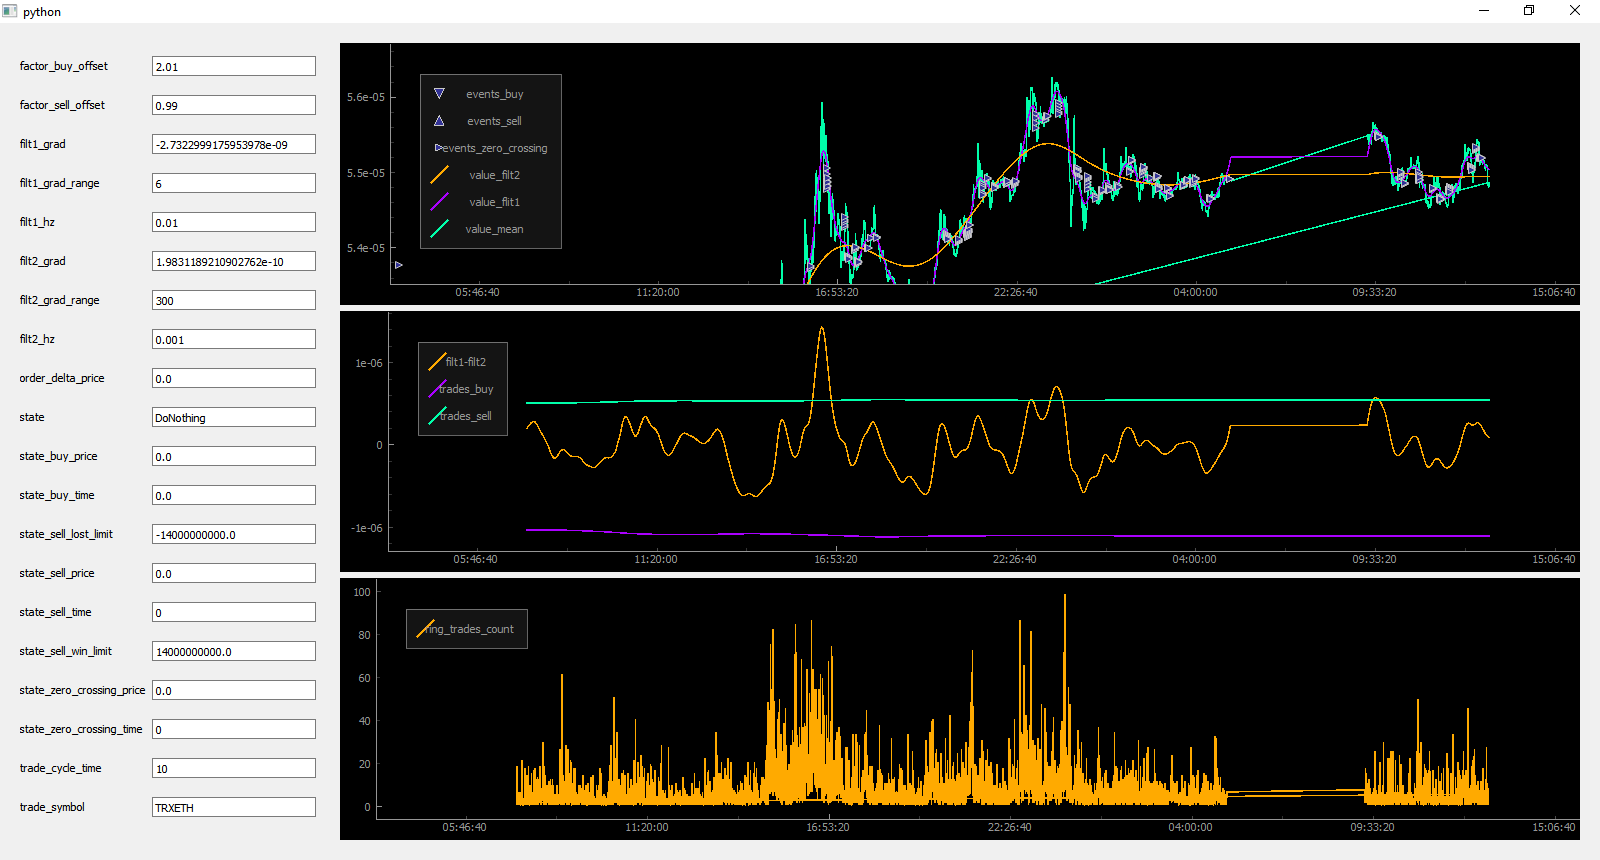
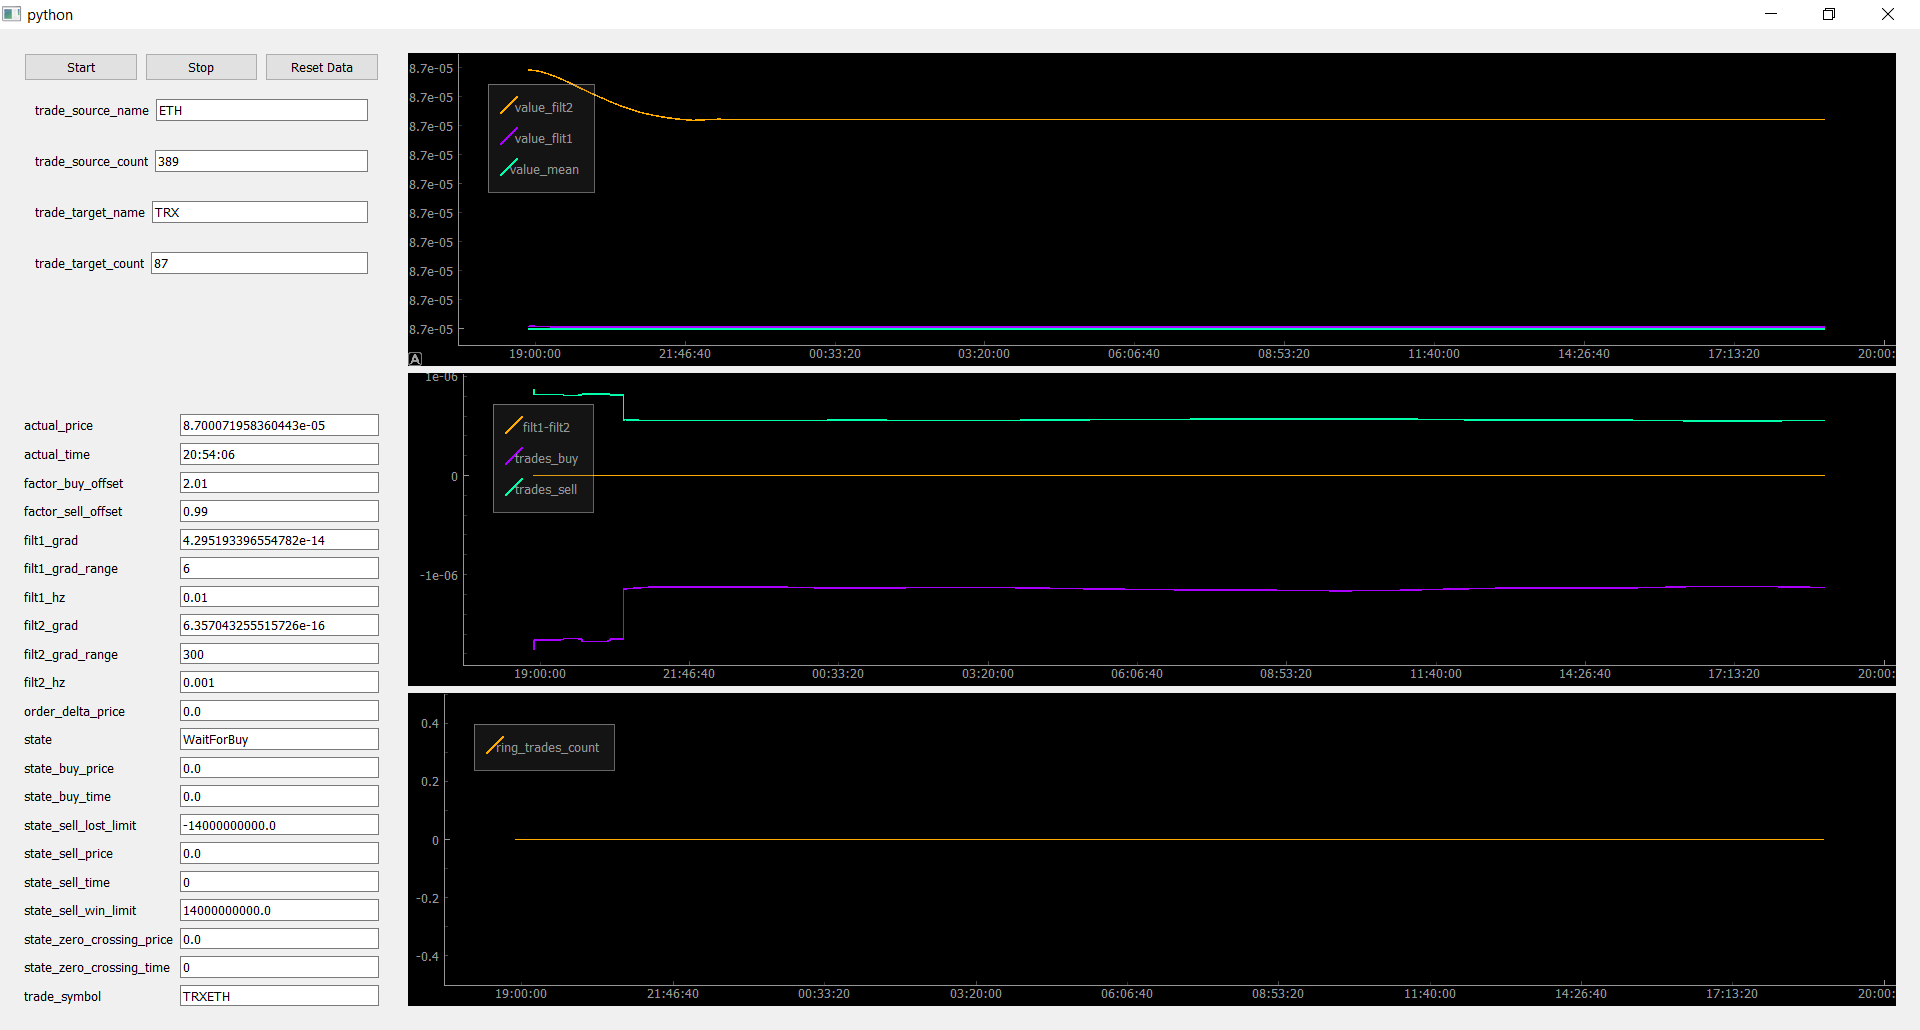
documentation updated

diff --git a/logic/TradeApi.py b/logic/TradeApi.py
@@ -187,7 +187,7 @@ class Api(object):
                 _value_sell = float(_asset1['free']) * _price
                 _value_buy = float(_asset2['free'])
 
-            print(_value_sell, _value_buy)
+                print(_value_sell, _value_buy)
 
             self.account.coin_target = _asset_name1
             self.account.coin_target_cnt = _cnt_target

diff --git a/README.md b/README.md
@@ -1,11 +1,22 @@
 ## Diponaut
 # Crypto Traiding Bot
+# branch:TradeStateMachine
 
 - plotting
 - logging 10s samples on daily basis
 - simple prediction model based on classical curve analysis
 - simulation mode for testing prediction models  - ToDo 
 - simple trading interface - ToDo
+
+# to do 
+- validation buy and sell implementation
+- move to rasbian vs. debian
+- test under real conditions
+- setup dockers vs. python installation package
+
+# latest changes 
+- moved to Python37 64bit
+- trading interface added to gui
 
 # Screenshot
 
